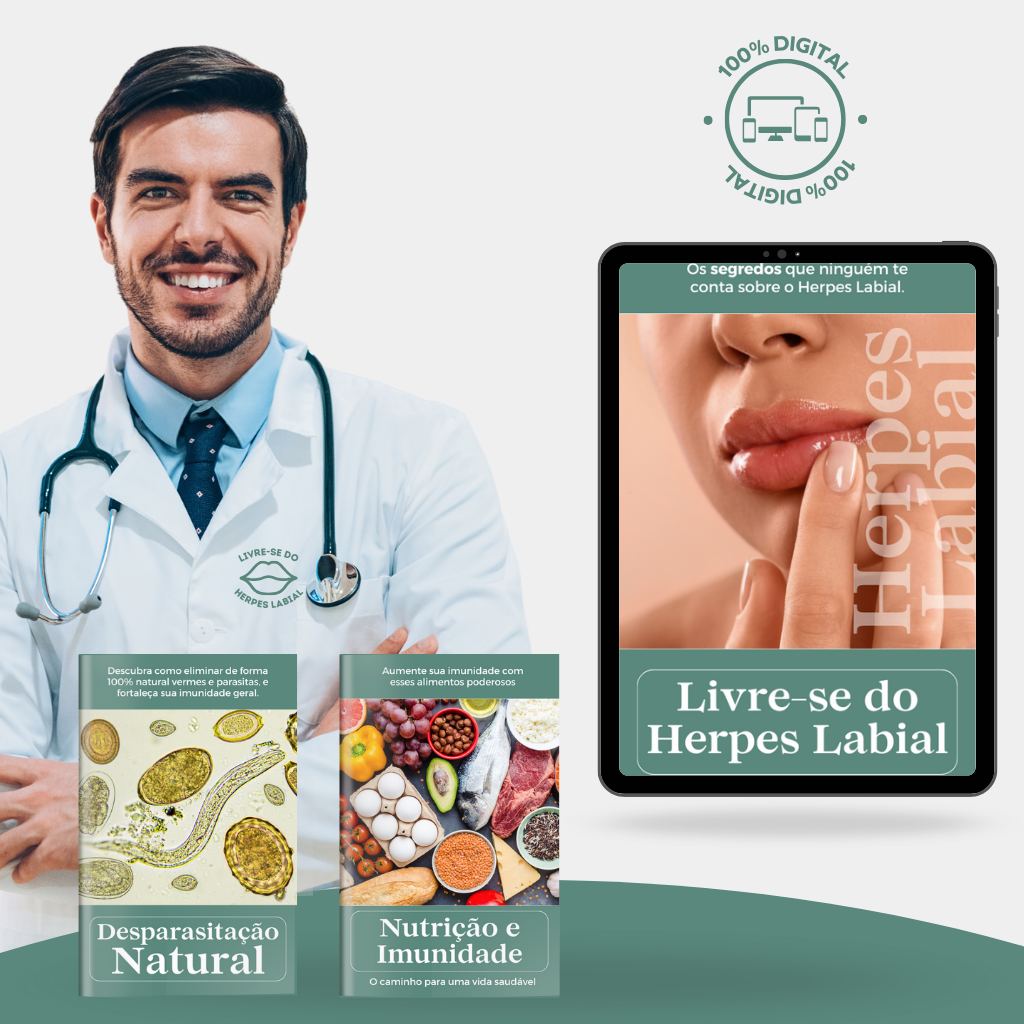
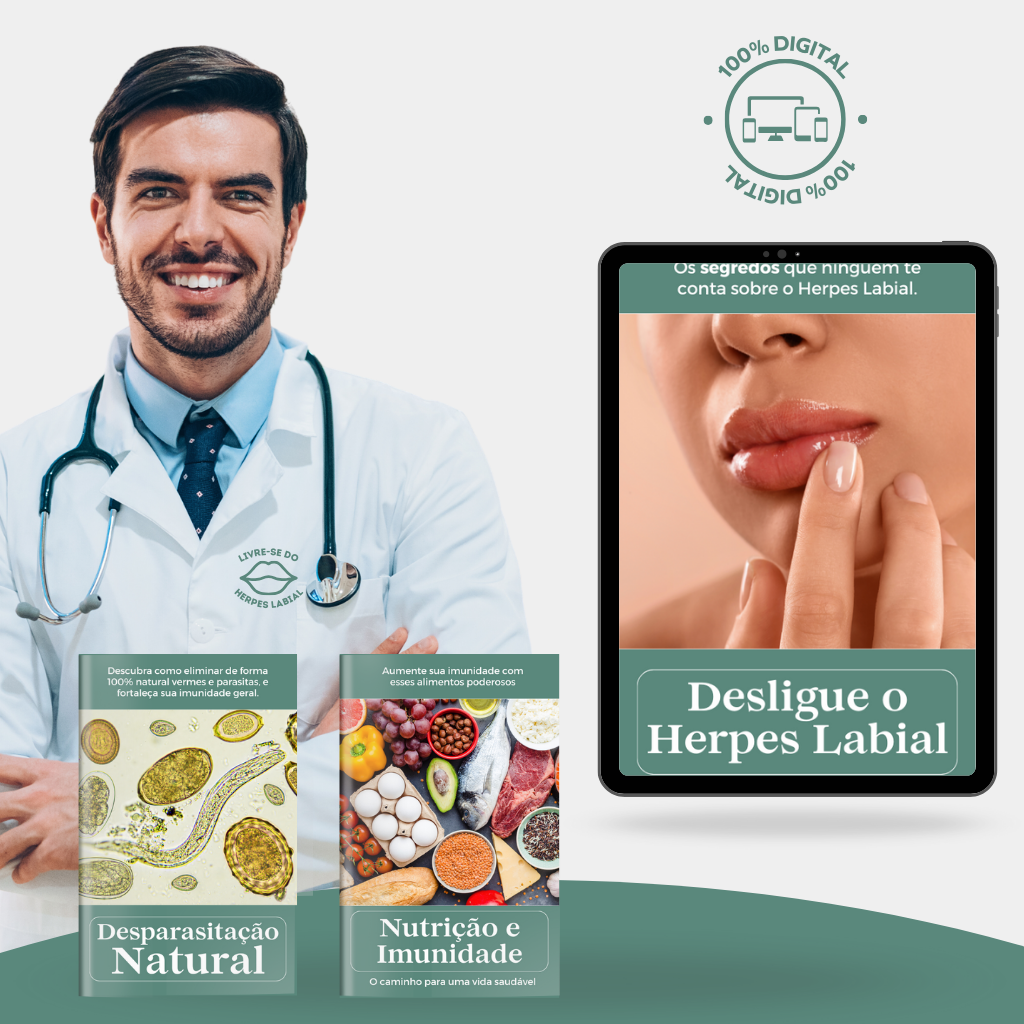
imagens, vsl

Changed region(s): [[0.6562, 0.25, 0.9688, 0.625], [0.6562, 0.6562, 0.9062, 0.7188]]

diff --git a/src/app/home/home.js b/src/app/home/home.js
@@ -93,7 +93,7 @@ export default function Home() {
       <meta name="facebook-domain-verification" content="samnzoppvqo73oto8wjs0aafhu5oiu" />
       <div className="bg-primary items-start">
         <link rel="icon" href="/favicon.ico" sizes="any" />
-        <title>Livre-se do Herpes Labial</title>
+        <title>Desligue o Herpes Labial</title>
         <div className="bg-primary py-1 items-start"></div>
         <div className="mx-auto max-w-4xl bg-white rounded-xl overflow-hidden items-start justify-center items-center content-center">
           <section className="bg-primary pt-5 pb-10 mask1 bg-[url('/images/bg-1-plain.svg')] bg-no-repeat bg-bottom bg-contain">
@@ -121,16 +121,16 @@ export default function Home() {
             )}
             <div className='justify-center items-center content-center relative z-0'>
               <div className="divide-y divide-gray-300/50 md:max-w-md md:ml-56 flex z-0">
-                <div id="vid_65527b437a21620009f2be3e" >
-                  <div id="thumb_65527b437a21620009f2be3e" role="status" className='flex justify-center items-center p-5 z-0'>
+                <div id="vid_65625ac57ce41e0009df19d4" >
+                  <div id="thumb_65625ac57ce41e0009df19d4" role="status" className='flex justify-center items-center p-5 z-0'>
                     <svg aria-hidden="true" className="inline w-20 h-20 mr-2 text-gray-200 animate-spin dark:text-gray-100 fill-rose-700 z-0" viewBox="0 0 100 101" fill="none" xmlns="http://www.w3.org/2000/svg">
                       <path d="M100 50.5908C100 78.2051 77.6142 100.591 50 100.591C22.3858 100.591 0 78.2051 0 50.5908C0 22.9766 22.3858 0.59082 50 0.59082C77.6142 0.59082 100 22.9766 100 50.5908ZM9.08144 50.5908C9.08144 73.1895 27.4013 91.5094 50 91.5094C72.5987 91.5094 90.9186 73.1895 90.9186 50.5908C90.9186 27.9921 72.5987 9.67226 50 9.67226C27.4013 9.67226 9.08144 27.9921 9.08144 50.5908Z" fill="currentColor" />
                       <path d="M93.9676 39.0409C96.393 38.4038 97.8624 35.9116 97.0079 33.5539C95.2932 28.8227 92.871 24.3692 89.8167 20.348C85.8452 15.1192 80.8826 10.7238 75.2124 7.41289C69.5422 4.10194 63.2754 1.94025 56.7698 1.05124C51.7666 0.367541 46.6976 0.446843 41.7345 1.27873C39.2613 1.69328 37.813 4.19778 38.4501 6.62326C39.0873 9.04874 41.5694 10.4717 44.0505 10.1071C47.8511 9.54855 51.7191 9.52689 55.5402 10.0491C60.8642 10.7766 65.9928 12.5457 70.6331 15.2552C75.2735 17.9648 79.3347 21.5619 82.5849 25.841C84.9175 28.9121 86.7997 32.2913 88.1811 35.8758C89.083 38.2158 91.5421 39.6781 93.9676 39.0409Z" fill="currentFill" />
                     </svg>
                   </div>
-                  <div id="thumb_65527b437a21620009f2be3e"></div>
+                  <div id="backdrop_65625ac57ce41e0009df19d4"></div>
                 </div>
-                <Script type="text/javascript" id="scr_65527b437a21620009f2be3e">var s=document.createElement(`script`);s.src=`https://scripts.converteai.net/dc18b5f5-d9cd-4d50-b62e-13e5bdae39b4/players/65527b437a21620009f2be3e/player.js`,s.async=!0,document.head.appendChild(s);</Script>
+                <Script type="text/javascript" id="scr_65625ac57ce41e0009df19d4">var s=document.createElement(`script`);s.src=`https://scripts.converteai.net/dc18b5f5-d9cd-4d50-b62e-13e5bdae39b4/players/65625ac57ce41e0009df19d4/player.js`,s.async=!0,document.head.appendChild(s);</Script>
               </div>
             </div>
             <div className="flex justify-center py-7">
@@ -168,7 +168,7 @@ export default function Home() {
                     Além disso, as crises recorrentes são extremamente dolorosas e podem te impedir de aproveitar momentos importantes da sua vida. Mas a boa notícia é que você não precisa mais conviver com essa situação!
                   </p>
                   <p className="mb-3 text-justify">
-                    Apresentamos o "Livre-se do Herpes Labial", um programa completo que vai te guiar passo a passo para reduzir em até 91% a carga viral do herpes labial e diminuir os sintomas em menos de 24 horas.
+                    Apresentamos o "Desligue o Herpes Labial", um programa completo que vai te guiar passo a passo para reduzir em até 91% a carga viral do herpes labial e diminuir os sintomas em menos de 24 horas.
                     Com nossa técnica natural e simples, você vai finalmente ter controle sobre essa condição e poder desfrutar da vida sem preocupações.
                   </p>
                 </div>
@@ -185,7 +185,7 @@ export default function Home() {
                     <Image alt="profil" src={ebook1} className="mx-auto object-cover rounded" />
                     <div className="w-full md:w-2/3">
                       <h2 className="text-xl text-left font-bold text-primary mb-3">
-                        Guia Livre-se do Herper Labial
+                        Guia Desligue o Herpes Labial
                       </h2>
                       <ul className="text-gray-600 dark:text-gray-800 w-full m-auto text-left text-base md:text-1xl">
                         {[
@@ -310,7 +310,7 @@ export default function Home() {
                   <p className="uppercase mb-10 text-center">
                     GARANTINDO HOJE SEU ACESSO AO{" "}
                     <span className="font-bold">
-                      Livre-se do Herpes Labial (
+                      Desligue o Herpes Labial (
                       <span className="line-through">VALOR R$ 147</span>)
                     </span>
                     ,
@@ -383,7 +383,7 @@ export default function Home() {
                 <h3 className="text-4xl text-center font-bold text-primary mt-2">
                   Tenha acesso ao
                   <br /> Programa Completo
-                  <br /> Livre-se do Hepes Labial
+                  <br /> Desligue o Herpes Labial
                 </h3>
                 <Image
                   className="mb-16"
@@ -493,7 +493,7 @@ export default function Home() {
                     PIRATARIA É <span className="font-bold">CRIME</span>
                   </h3>
                   <p className="text-xs mb-2">
-                    A venda do Programa Livre-se da Hepes Labial só pode ser realizada através
+                    A venda do Programa Desligue o Herpes Labial só pode ser realizada através
                     deste site. Qualquer outro site onde você encontre este
                     programa é uma FALSIFICAÇÃO e vai contra as leis. Evite
                     falsificações e recuse conteúdos ilegais ou pirateados. Não
@@ -515,7 +515,7 @@ export default function Home() {
                     alt="Logo autenticidade"
                   />
                   <p className="text-xs text-center mb-8">
-                    Livre-se da Hepes Labial – Copyright 2023 Todos os direitos
+                    Desligue o Herpes Labial – Copyright 2023 Todos os direitos
                     reservados.
                   </p>
                   <p className="text-xs text-center">

diff --git a/src/app/obrigado/page.js b/src/app/obrigado/page.js
@@ -43,13 +43,13 @@ export default function Home() {
   return (
     <div className="bg-primary items-start">
       <link rel="icon" href="/favicon.ico" sizes="any" />
-      <title>Obrigado Livre-se da Herpes Labial</title>
+      <title>Obrigado Desligue o Herpes Labial</title>
       <div className="bg-primary py-1 items-start"></div>
       <div className="mx-auto max-w-4xl bg-white rounded-xl overflow-hidden items-start justify-center items-center content-center">
         <section>
           <div className="p-5">
             <h2 className="text-2xl text-center font-bold text-primary mb-5">
-              A equipe Livre-se da Herpes Labial agradece a confiança, verifique sua caixa de e-mail e SPAM para informações sobre download e acesso ao nosso portal.
+              A equipe Desligue o Herpes Labial agradece a confiança, verifique sua caixa de e-mail e SPAM para informações sobre download e acesso ao nosso portal.
             </h2>
           </div>
         </section>
@@ -59,7 +59,7 @@ export default function Home() {
               PIRATARIA É <span className="font-bold">CRIME</span>
             </h3>
             <p className="text-xs mb-2">
-              A venda dos Programas e Livre-se da Herpes Labial só pode ser realizada através
+              A venda dos Programas e Desligue o Herpes Labial só pode ser realizada através
               deste site. Qualquer outro site onde você encontre este
               programa é uma FALSIFICAÇÃO e vai contra as leis. Evite
               falsificações e recuse conteúdos ilegais ou pirateados. Não
@@ -81,7 +81,7 @@ export default function Home() {
               alt="Logo autenticidade"
             /> */}
             <p className="text-xs text-center mb-8">
-              Livre-se da Herpes Labial – Copyright 2023 Todos os direitos
+              Desligue o Herpes Labial – Copyright 2023 Todos os direitos
               reservados.
             </p>
             <p className="text-xs text-center">

diff --git a/src/app/suporte/page.js b/src/app/suporte/page.js
@@ -43,7 +43,7 @@ export default function Home() {
   return (
     <div className="bg-primary items-start">
       <link rel="icon" href="/favicon.ico" sizes="any" />
-      <title>Suporte Livre-se da Herpes Labial</title>
+      <title>Suporte Desligue o Herpes Labial</title>
       <div className="bg-primary py-1 items-start"></div>
       <div className="mx-auto max-w-4xl bg-white rounded-xl overflow-hidden items-start justify-center items-center content-center">
         <section>
@@ -59,7 +59,7 @@ export default function Home() {
               PIRATARIA É <span className="font-bold">CRIME</span>
             </h3>
             <p className="text-xs mb-2">
-              A venda dos Programas e Livre-se da Herpes Labial só pode ser realizada através
+              A venda dos Programas e Desligue o Herpes Labial só pode ser realizada através
               deste site. Qualquer outro site onde você encontre este
               programa é uma FALSIFICAÇÃO e vai contra as leis. Evite
               falsificações e recuse conteúdos ilegais ou pirateados. Não
@@ -81,7 +81,7 @@ export default function Home() {
               alt="Logo autenticidade"
             /> */}
             <p className="text-xs text-center mb-8">
-              Livre-se da Herpes Labial – Copyright 2023 Todos os direitos
+              Desligue o Herpes Labial – Copyright 2023 Todos os direitos
               reservados.
             </p>
             <p className="text-xs text-center">
